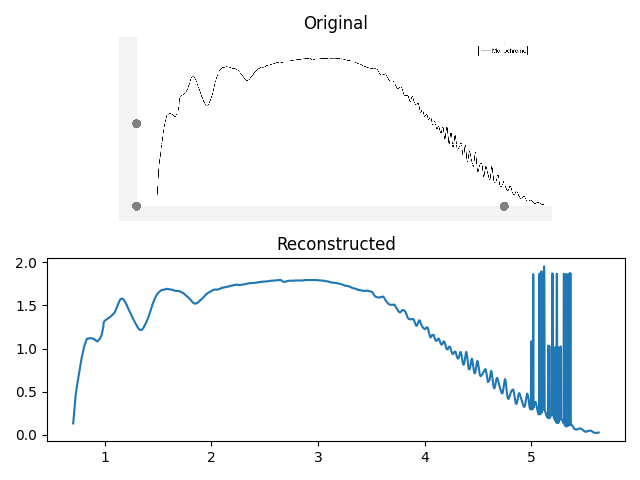
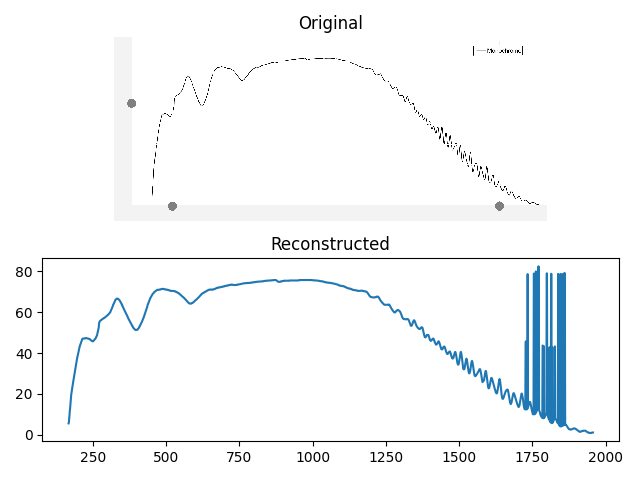
fixed scaling in last example.

diff --git a/tests/test_cli.py b/tests/test_cli.py
@@ -62,7 +62,7 @@ def test_ecg():
 def test_grid():
     csvfile = _run_cmdline(
         HERE / Path("../figures/graph_with_grid.png"),
-        [(1, 0), (5, 0), (0, 1)],
-        [(81, 69), (1779, 68), (81, 449)],
+        [(200, 0), (1000, 0), (0, 50)],
+        [(269, 69), (1780, 69), (81, 542)],
     )
     _check_csv_file(csvfile)

diff --git a/README.md b/README.md
@@ -119,8 +119,8 @@ plotdigitizer  figures/ECGImage.png \
 
 ```
 plotdigitizer  figures/graph_with_grid.png \
-		-p 1,0 -p 5,0 -p 0,1 \
-        -l 81,69 -l 1779,68 -l 81,449 \
+		-p 200,0 -p 1000,0 -p 0,50 \
+        -l 269,69 -l 1789,69 -l 82,542 \
 		--plot figures/graph_with_grid.result.png
 ```
 
